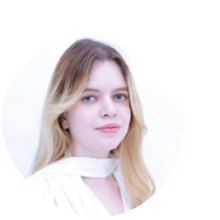
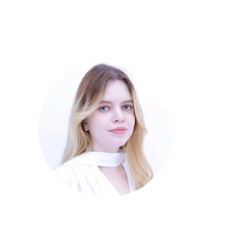
update
update

Changed region(s): [[0.1091, 0.1636, 0.7091, 0.9818], [0.2455, 0.9, 0.2727, 0.9545], [0.3273, 0.7636, 0.3545, 0.7909]]

diff --git a/index.html b/index.html
@@ -256,22 +256,23 @@
 
     .profile-image-wrap {
       display: flex;
-      width: 150px;
-      height: 150px;
+      width: 156px;
+      height: 156px;
       align-items: center;
       justify-content: center;
-      border: 2px solid rgba(109, 67, 165, 0.18);
+      border: 2px solid rgba(109, 67, 165, 0.22);
       border-radius: 50%;
-      background: linear-gradient(180deg, rgba(243, 237, 255, 0.8), rgba(255, 255, 255, 0.98));
-      box-shadow: 0 10px 26px rgba(74, 40, 121, 0.1);
+      background: linear-gradient(180deg, rgba(245, 240, 255, 0.92), rgba(255, 255, 255, 0.98));
+      box-shadow: 0 12px 28px rgba(74, 40, 121, 0.12);
       overflow: hidden;
     }
 
     .profile-image {
-      width: 100%;
-      height: 100%;
-      object-fit: cover;
+      width: 92%;
+      height: 92%;
+      object-fit: contain;
       object-position: center;
+      display: block;
     }
 
     .speech-bubble {
